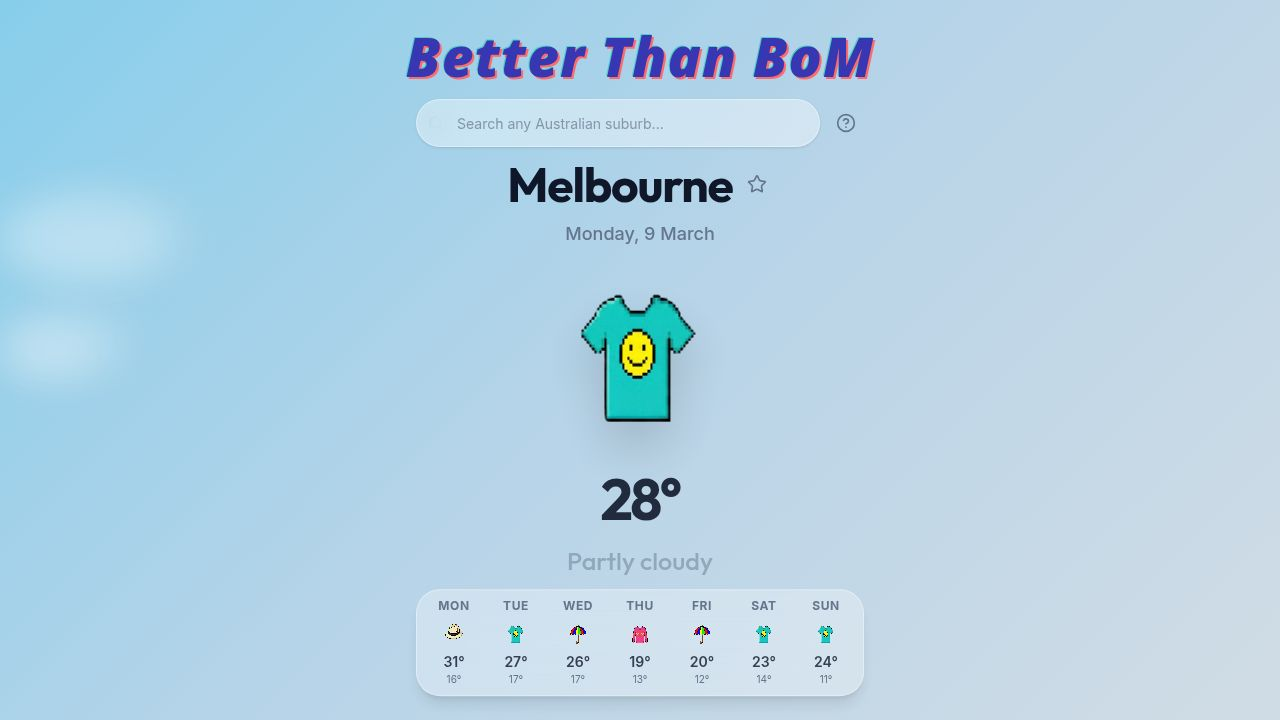
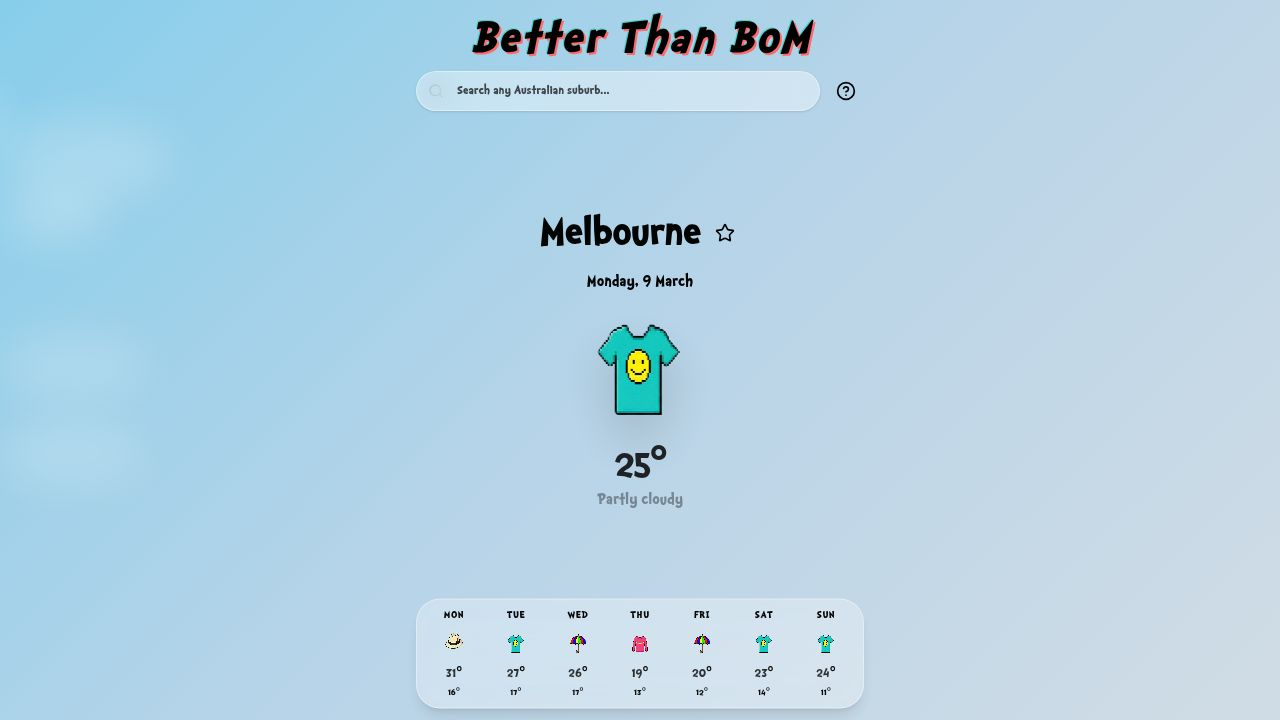
Reduce vertical spacing in weather application display
Adjusted various CSS properties including flexbox gaps, container padding, and font sizes to decrease vertical spacing between elements. Modified the weather icon and temperature display sizes and applied new line-height utilities to tighten the layout.

Replit-Commit-Author: Agent
Replit-Commit-Session-Id: cfb77314-5193-4aab-ae7c-672793d85f56
Replit-Commit-Checkpoint-Type: full_checkpoint
Replit-Commit-Event-Id: 8b1633c2-6a65-4b92-82dc-d6a1923d7769
Replit-Commit-Screenshot-Url: https://storage.googleapis.com/screenshot-production-us-central1/72714bbe-beb0-46ca-a33e-442dd71e8e73/cfb77314-5193-4aab-ae7c-672793d85f56/rYp1rzM
Replit-Helium-Checkpoint-Created: true

diff --git a/client/src/pages/home.tsx b/client/src/pages/home.tsx
@@ -175,7 +175,7 @@ export default function Home() {
           </div>
         )}
 
-        <div className="flex-1 flex flex-col items-center justify-center min-h-0 relative w-full">
+        <div className="flex-1 flex flex-col items-center justify-center min-h-0 relative w-full gap-0">
           <AnimatePresence mode="wait">
             {isLoading ? (
               <motion.div 
@@ -195,7 +195,7 @@ export default function Home() {
                 animate={{ opacity: 1, scale: 1 }}
                 exit={{ opacity: 0, scale: 1.05 }}
                 transition={{ duration: 0.4, ease: "easeOut" }}
-                className="flex flex-col items-center text-center w-full"
+                className="flex flex-col items-center text-center w-full gap-0"
               >
                 {/* Location Info */}
                 <motion.div 
@@ -237,9 +237,9 @@ export default function Home() {
                 </motion.div>
 
                 {/* Main Icon - The Hero */}
-                <div className="relative flex flex-col items-center" style={{ marginBottom: 'clamp(0px, 1vh, 8px)' }}>
+                <div className="relative flex flex-col items-center gap-0" style={{ marginBottom: 0 }}>
                    
-                   <div className="relative z-10" style={{ width: 'clamp(120px, 28vh, 240px)', height: 'clamp(120px, 28vh, 240px)' }}>
+                   <div className="relative z-10" style={{ width: 'clamp(100px, 20vh, 200px)', height: 'clamp(100px, 20vh, 200px)' }}>
                      <WeatherIcon 
                        condition={data.current.condition} 
                        temp={data.current.temp}
@@ -255,7 +255,7 @@ export default function Home() {
                        transition={{ delay: 0.2 }}
                        className="relative z-10"
                      >
-                       <span data-testid="text-temperature" className="font-heading font-bold text-foreground tracking-tighter" style={{ fontSize: 'clamp(2.5rem, 8vh, 4.5rem)' }}>
+                       <span data-testid="text-temperature" className="font-heading font-bold text-foreground tracking-tighter leading-none" style={{ fontSize: 'clamp(2rem, 6vh, 3.5rem)' }}>
                          {Math.round(data.current.temp)}<span className="degree-symbol">°</span>
                        </span>
                      </motion.div>
@@ -265,8 +265,8 @@ export default function Home() {
                     initial={{ opacity: 0 }}
                     animate={{ opacity: 1 }}
                     transition={{ delay: 0.3 }}
-                    className="font-heading font-medium text-muted-foreground relative z-10"
-                    style={{ fontSize: 'clamp(1.2rem, 3.5vh, 1.875rem)' }}
+                    className="font-heading font-medium text-muted-foreground relative z-10 leading-tight"
+                    style={{ fontSize: 'clamp(1rem, 2.5vh, 1.5rem)' }}
                    >
                      {data.current.description}
                    </motion.p>
